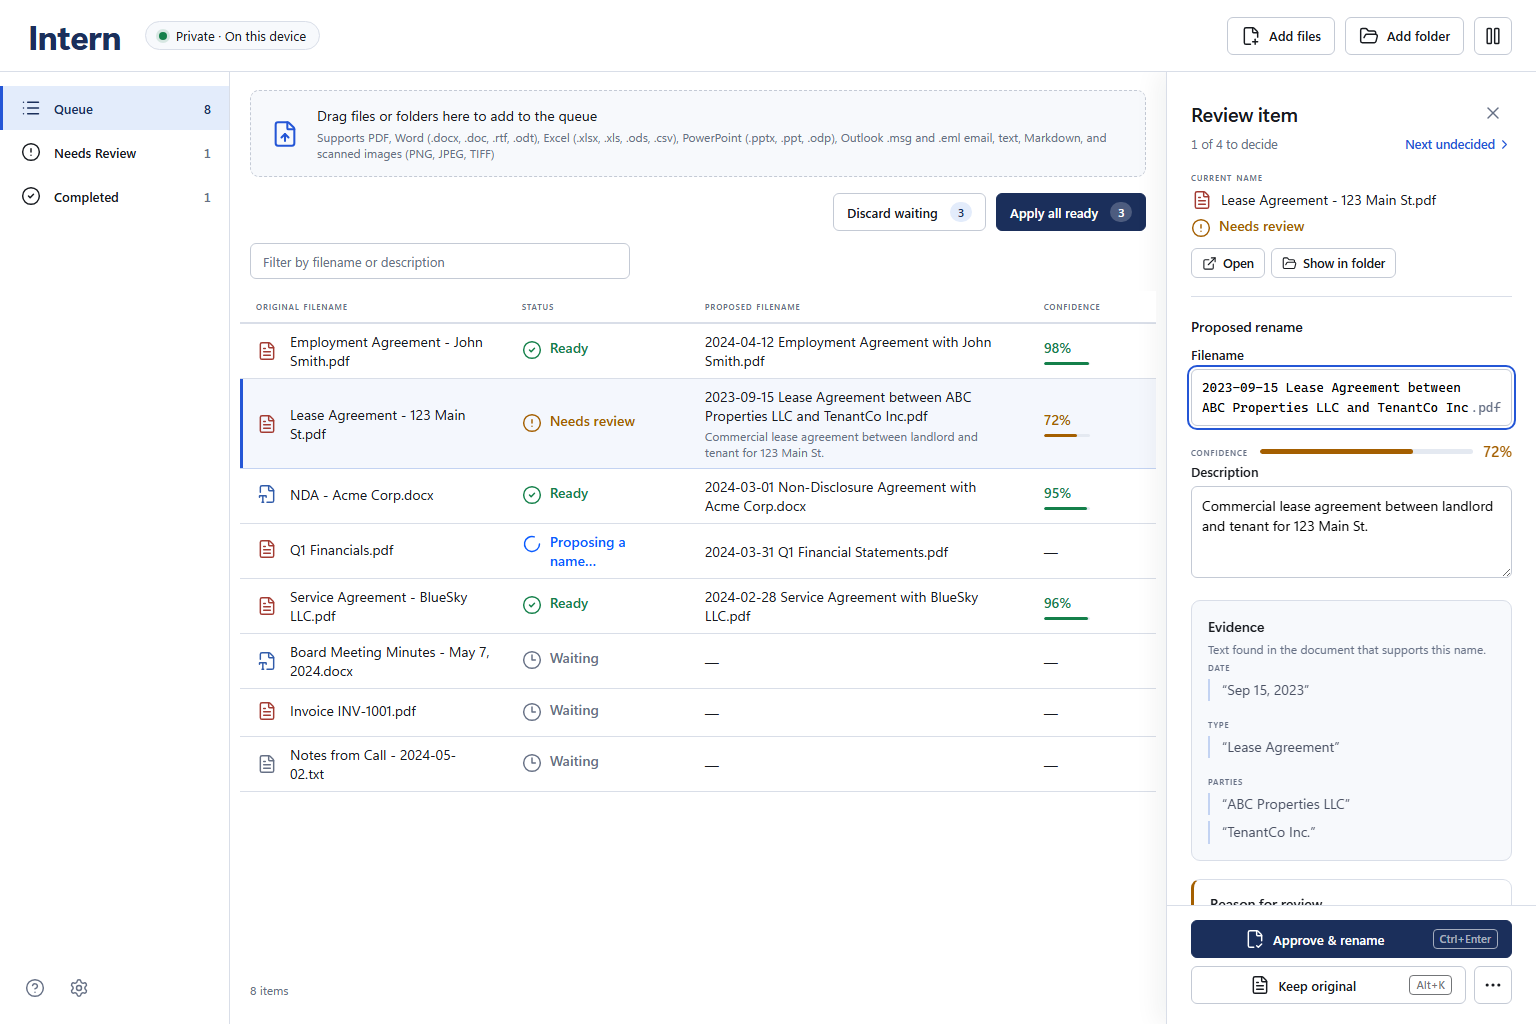
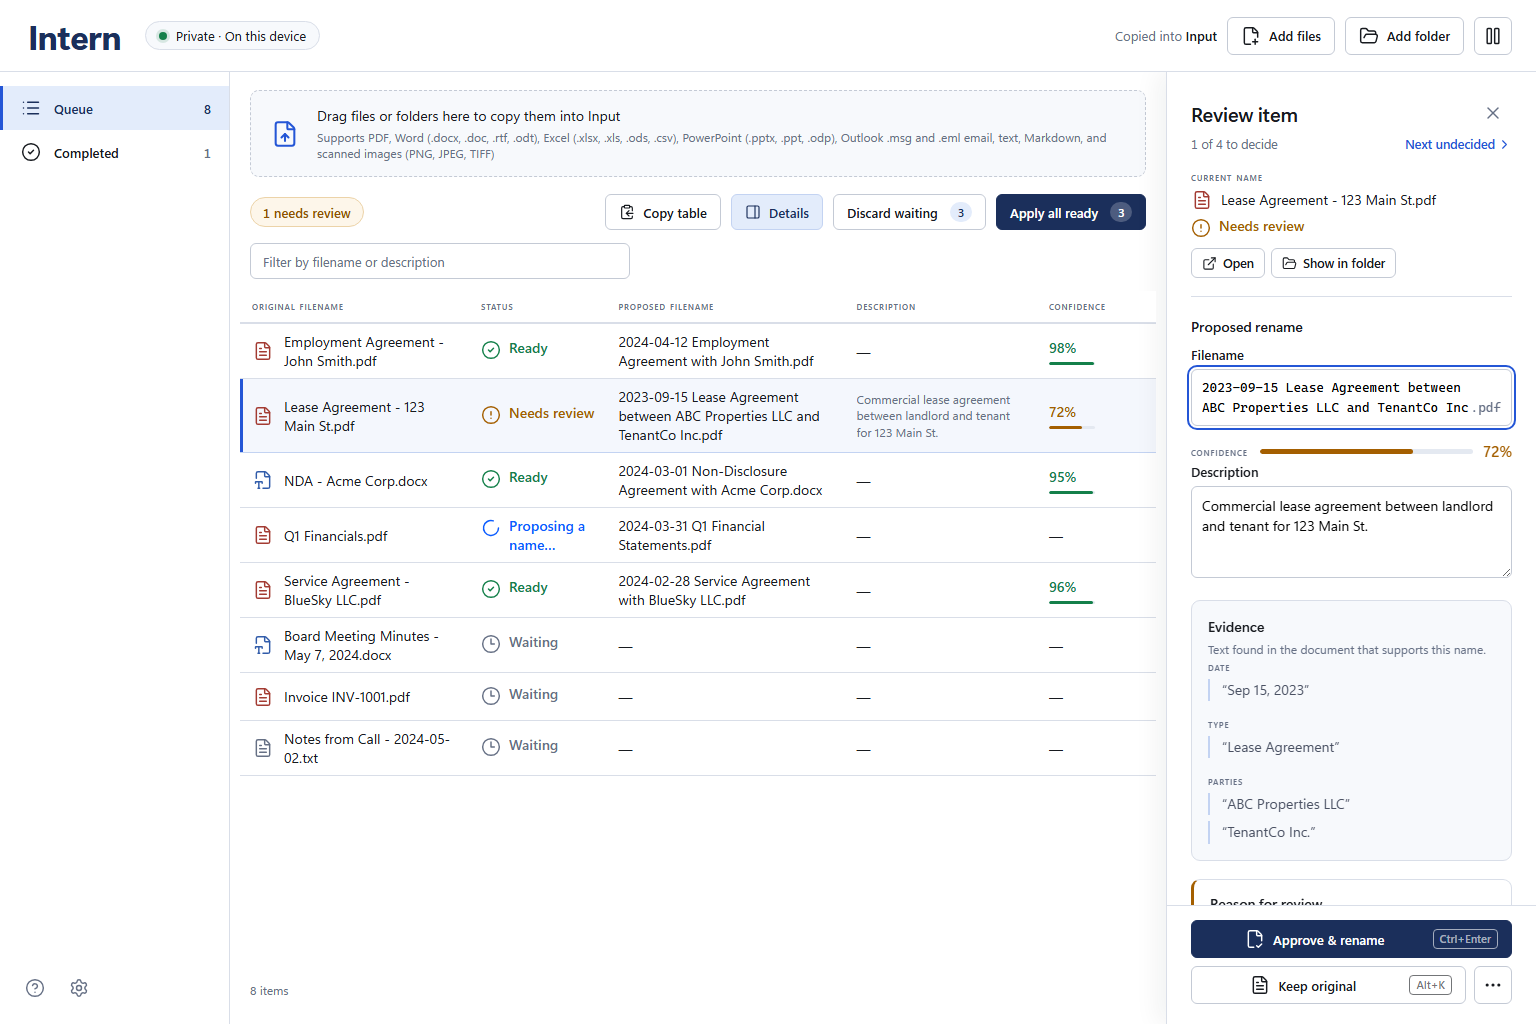
qa: accept the alpha.12 rendered fidelity sign-off
The maintainer, Zachary Brenner, reviewed the 1536x1024 capture from
Whole-product QA evidence run 40566145844 at cd05857 and accepted it. The
sign-off is bound to release-input digest 649494076b20...3126 and capture
2ea19abf6f40...a52d; the ledger records what was checked and the run's
corpus scores against alpha.11's, the checklist each gate's result. Nothing
outside docs/qa/ changes.

Claude-Session: https://claude.ai/code/session_01Mz57WPgorhFEvkawBh73EE

diff --git a/docs/qa/release-checklist.md b/docs/qa/release-checklist.md
@@ -1,39 +1,38 @@
 # Intern v0.1.0-alpha.12 release checklist
 
-**Release status: blocked pending whole-product QA, rendered fidelity sign-off,
-exact-main validation, and the deliberately dispatched release workflow.** No
-hosted QA run has been recorded for alpha.12 yet, so every gate below is
-**pending/blocked** until a hosted run produces artifacts bound to the alpha.12
-release inputs. Nothing in this checklist authorizes a tag or publication.
+**Release status: blocked pending exact-main validation and the deliberately
+dispatched release workflow.** Whole-product QA has run and the rendered
+fidelity sign-off is accepted, so those two gates are no longer
+**pending/blocked**. Everything the release job owns still is. Nothing in this
+checklist authorizes a tag or publication.
 
 ## Hosted QA artifacts and accepted alpha.12 evidence
 
-- Workflow: Whole-product QA evidence, run `pending`, attempt `pending`.
-- Commit: `pending`; runner: `pending`.
-- Execution result: pending. No alpha.12 hosted QA run has been executed.
-- Release-input digest: `pending`.
-- Capture: `docs/qa/latest-implementation.png`, dimensions and SHA-256 pending a
-  fresh alpha.12 capture. The alpha.11 capture was bound to a release-input
-  digest that no longer describes what ships, and this release changes the
-  default screen (one Queue view with a Details panel, input and output
-  folders, the local model choice in Settings), so the frame has to be taken
-  again and reviewed rather than carried over.
-- Fidelity reviewer: pending; a fresh sign-off must be recorded in
-  `rendered-fidelity-signoff.json` and bound to the alpha.12 release-input digest.
+- Workflow: Whole-product QA evidence, run `40566145844`, attempt `1`.
+- Commit: `cd058571ebe529d4bf434c1abcdebf6fddbbeb57`; runner: `Windows/X64`.
+- Execution result: every step passed, including the real-inference corpus
+  evaluation, which `validate-model-evaluation.mjs` accepted.
+- Release-input digest:
[1 lines of base64/hex data omitted]
+- Capture: `docs/qa/latest-implementation.png`, 1536x1024, SHA-256
[1 lines of base64/hex data omitted]
+- Fidelity reviewer: the maintainer, Zachary Brenner, accepted the capture. The
+  record is in `rendered-fidelity-signoff.json`, bound to the digest above, and
+  the reasoning is in `fidelity-ledger.md`.
 
 | Gate | Status | Hosted run artifact or post-run evidence |
 |---|---|---|
-| Frontend unit, lint, and build check | pending | `npm run check` has not been recorded for alpha.12. |
-| Browser core interaction, accessibility, and 1024-pixel layout | pending | `npm run test:e2e` capture has not been recorded for alpha.12. |
-| Rendered fidelity review | pending/blocked | A fresh alpha.12 capture must be reviewed and its sign-off bound to the alpha.12 release-input digest. |
-| Rust formatting and workspace lint | pending | `cargo fmt --all -- --check`; `cargo clippy --locked --workspace --all-targets -- -D warnings`. |
-| Rust workspace tests | pending | `cargo test --locked --workspace --all-targets`. |
-| Pinned runtime assets and native fixtures | pending | `npm run assets:verify -- --require-bundled`. |
-| Windows Tauri/NSIS build | pending | `npm run tauri build -- --bundles nsis -- --locked`. |
-| Installer and installed-core smoke | pending | Install, Send to shortcut, packaged worker PDF/OCR, app launch and clean shutdown, uninstall, user data retained. |
-| Corpus evaluation and model acceptance | pending | `validate-model-evaluation.mjs` must accept a fresh alpha.12 evaluation. |
-| Exact-main validation | pending | The release workflow must verify its dispatch target is the exact current `main` commit. |
-| Deliberately dispatched release workflow | pending | Rebuild, updater signature verification, checksums/SBOM/evidence acceptance, provenance, annotated tag creation, and publication remain release-job gates. |
+| Frontend unit, lint, and build check | accepted | `npm run check` exit 0; TypeScript, 71 Vitest files (716 tests passed, 1 skipped), and the Vite production build. |
+| Browser core interaction, accessibility, and 1024-pixel layout | accepted | `npm run test:e2e` exit 0; 29 Playwright tests, and the 1536x1024 capture. |
+| Rendered fidelity review | accepted | The capture above, reviewed and bound to the alpha.12 release-input digest. |
+| Rust formatting and workspace lint | accepted | `cargo fmt --all -- --check` and `cargo clippy --locked --workspace --all-targets -- -D warnings`, both exit 0. |
+| Rust workspace tests | accepted | `cargo test --locked --workspace --all-targets` exit 0; 1,684 tests. |
+| Pinned runtime assets and native fixtures | accepted | `npm run assets:verify -- --require-bundled` exit 0 (54 runtime files, 26 license files); 4 native fixture tests with the pinned assets. |
+| Windows Tauri/NSIS build | accepted | `npm run tauri build -- --bundles nsis -- --locked` exit 0; one installer. |
+| Installer and installed-core smoke | accepted | `scripts/smoke-installer.ps1` exit 0: install, packaged worker PDF/OCR, uninstall, user data retained. |
+| Corpus evaluation and model acceptance | accepted | 19 documents scored on the pinned Qwen3.5 2B model. Every accuracy gate is above its floor, and no document was filed under a forbidden date or party. |
+| Exact-main validation | pending/blocked | The release workflow must verify its dispatch target is the exact current `main` commit. |
+| Deliberately dispatched release workflow | pending/blocked | Rebuild, updater signature verification, checksums/SBOM/evidence acceptance, provenance, annotated tag creation, and publication remain release-job gates. |
 
 ## Release boundary
 

diff --git a/docs/qa/fidelity-ledger.md b/docs/qa/fidelity-ledger.md
@@ -1,16 +1,90 @@
-# Intern alpha.11 rendered-fidelity ledger
+# Intern alpha.12 rendered-fidelity ledger
 
-**Rendered sign-off status: accepted for alpha.11.**
+**Rendered sign-off status: accepted for alpha.12.**
 `docs/qa/rendered-fidelity-signoff.json` is bound to release-input digest
[2 lines of base64/hex data omitted]
 1536x1024 capture `docs/qa/latest-implementation.png`, SHA-256
[1 lines of base64/hex data omitted]
-Whole-product QA evidence run 37365868306 (attempt 5) at commit
-`6aa24a522a78475ba7cff02b6b756159b0d67b9b`. That commit's tree is identical to
-`main` at `6ee8a404b37fe17ac50d14106affba40d0f53806`, so both carry the same
-digest.
[1 lines of base64/hex data omitted]
+Whole-product QA evidence run 40566145844 (attempt 1) at commit
+`cd058571ebe529d4bf434c1abcdebf6fddbbeb57`, `main` after the alpha.12
+release preparation.
 
-## alpha.11 record
+## alpha.12 record
+
+Run 40566145844 passed every gate on Windows:
+
+- frontend checks (71 Vitest files, 716 tests passed and 1 skipped), and the
+  browser QA suite (29 tests) including its contrast assertions;
+- `cargo fmt --check`, workspace clippy with warnings denied, and the Rust
+  workspace tests (1,684);
+- native fixture parsing with the pinned assets, and the verified pinned runtime
+  (54 runtime files, 26 license files), now with the PrismML llama.cpp release
+  `prism-b10826-c9c34bc`;
+- an NSIS build, and installer and uninstall smoke with user data retained;
+- an accepted whole-corpus evaluation with real inference: 19 documents on the
+  pinned Qwen3.5 2B model (the accurate tier), median 7.6 s and at most 24.2 s
+  of inference a document, peak model memory 2,126 MiB.
+
+Against alpha.11's hosted run on the same 19 documents: parties 18/19 (16/19),
+review rate 26.3% (42.1%), and nothing filed under a date or a party the corpus
+marks as a trap, in both. Two counts are one document lower: type 17/18
+(18/18) and description specific 17/19 (19/19); descriptions covering the
+expected facts are 15/18 (16/18). Date role is 15/16, on a denominator the
+evidence pipeline counts differently from alpha.11's 14/14. The release notes'
+accuracy figures come from InternBench and are cited there; these are the
+release gate's own corpus, and every gate is above its floor.
+
+The capture was inspected against the accepted concept:
+
+- Sidebar counts, the queue table and the review panel read as three distinct
+  planes.
+- The header states the privacy posture.
+- Date-first proposed filenames, right-aligned confidence and em-dashes for
+  absent values stay consistent down the column.
+- Ready, Needs review, Proposing a name and Waiting are each distinguishable by
+  icon as well as color.
+- Evidence stays attributed under DATE, TYPE and PARTIES headings, with each
+  party on its own line.
+- The approve and keep actions sit in a pinned bar at the foot of the panel,
+  with their keyboard shortcuts.
+- No collisions, illegible copy, excessive density or ambiguous focus were
+  observed.
+
+What changed in the frame is this release's own: one Queue view, with a
+"1 needs review" count where the separate Needs Review page was; Copy table and
+Details in the toolbar; "Copied into Input" in the header; and a drop zone that
+copies what is dropped into the input folder.
+
+As in alpha.11, the panel's Reason for review sits below the fold under the
+pinned action bar and is reached by scrolling the panel; bringing it above the
+fold for an item in review is still a follow-up.
+
+### Reviewer
+
+Reviewed by the maintainer, Zachary Brenner, who looked at the capture named
+above and accepted it. Claude Code inspected it first and wrote this record and
+the sign-off at the maintainer's direction.
+
+### Freshness boundary
+
+The sign-off is accepted only for the digest and screenshot named above.
+`scripts/hash-release-inputs.mjs` derives that digest from the committed non-QA
+release inputs. Any relevant source change invalidates this record and requires
+a new capture and review. Exact-main validation and the deliberately dispatched
+release workflow must still reproduce and accept their own evidence before a tag
+or publication is allowed.
+
+## Superseded alpha.11 record
+
+The alpha.11 sign-off was bound to release-input digest
[1 lines of base64/hex data omitted]
+`6aa24a522a78475ba7cff02b6b756159b0d67b9b`, with the capture SHA-256
[1 lines of base64/hex data omitted]
+requests #16 through #34 have changed the non-QA release inputs since, so that
+digest no longer describes what would ship. Its record is kept below for
+history.
+
+### alpha.11 run
 
 Run 37365868306 passed every gate on Windows:
 
